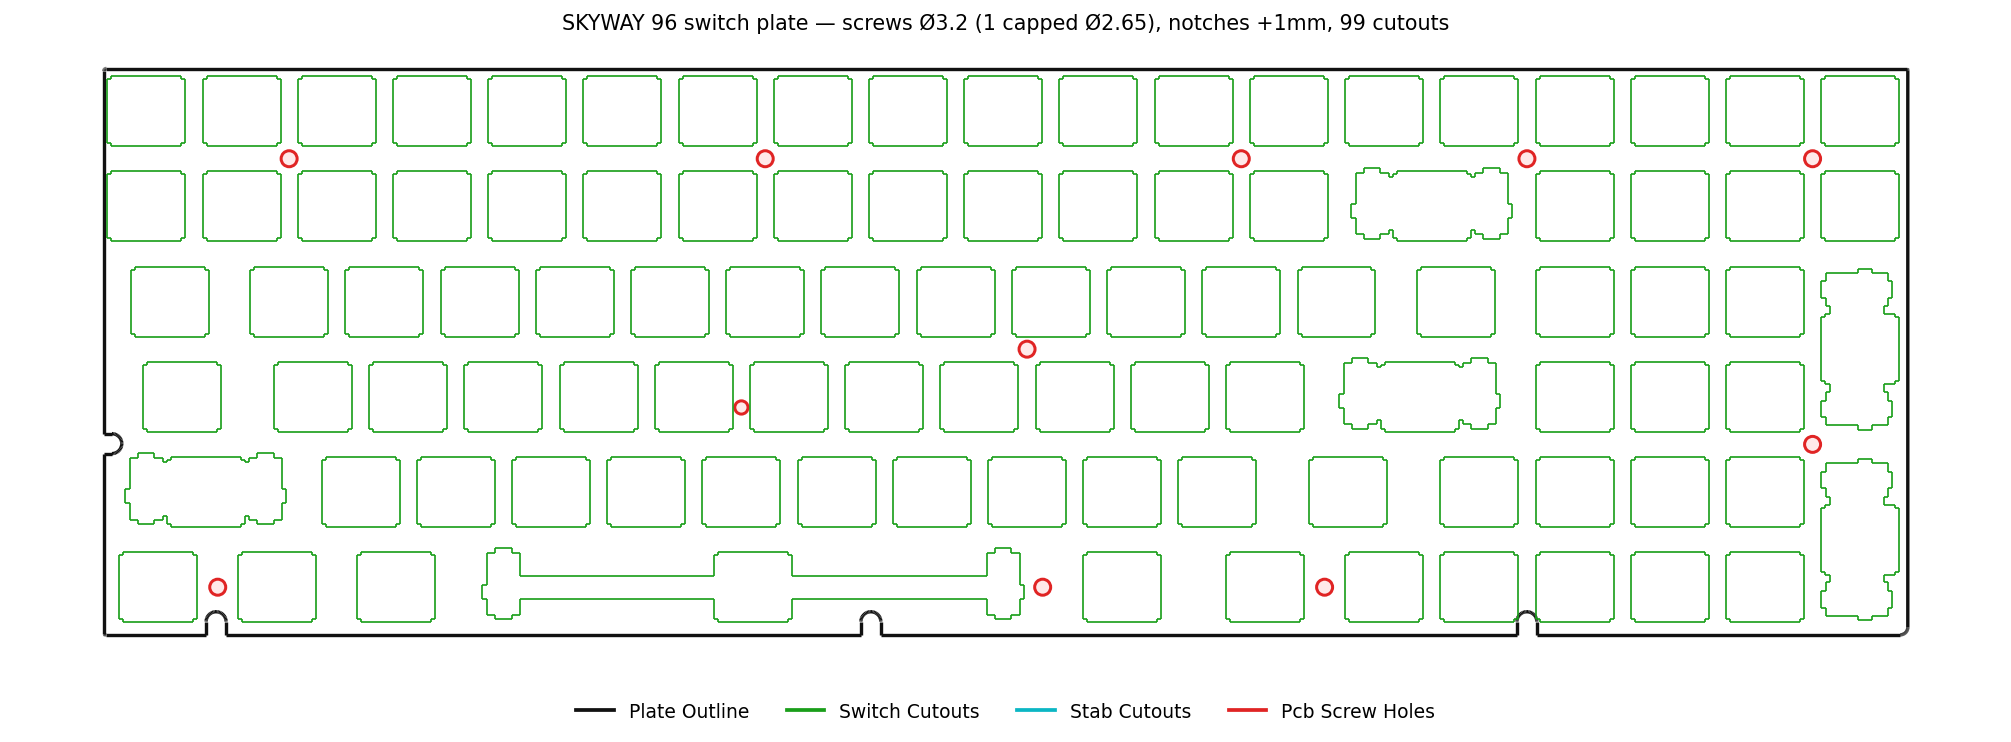
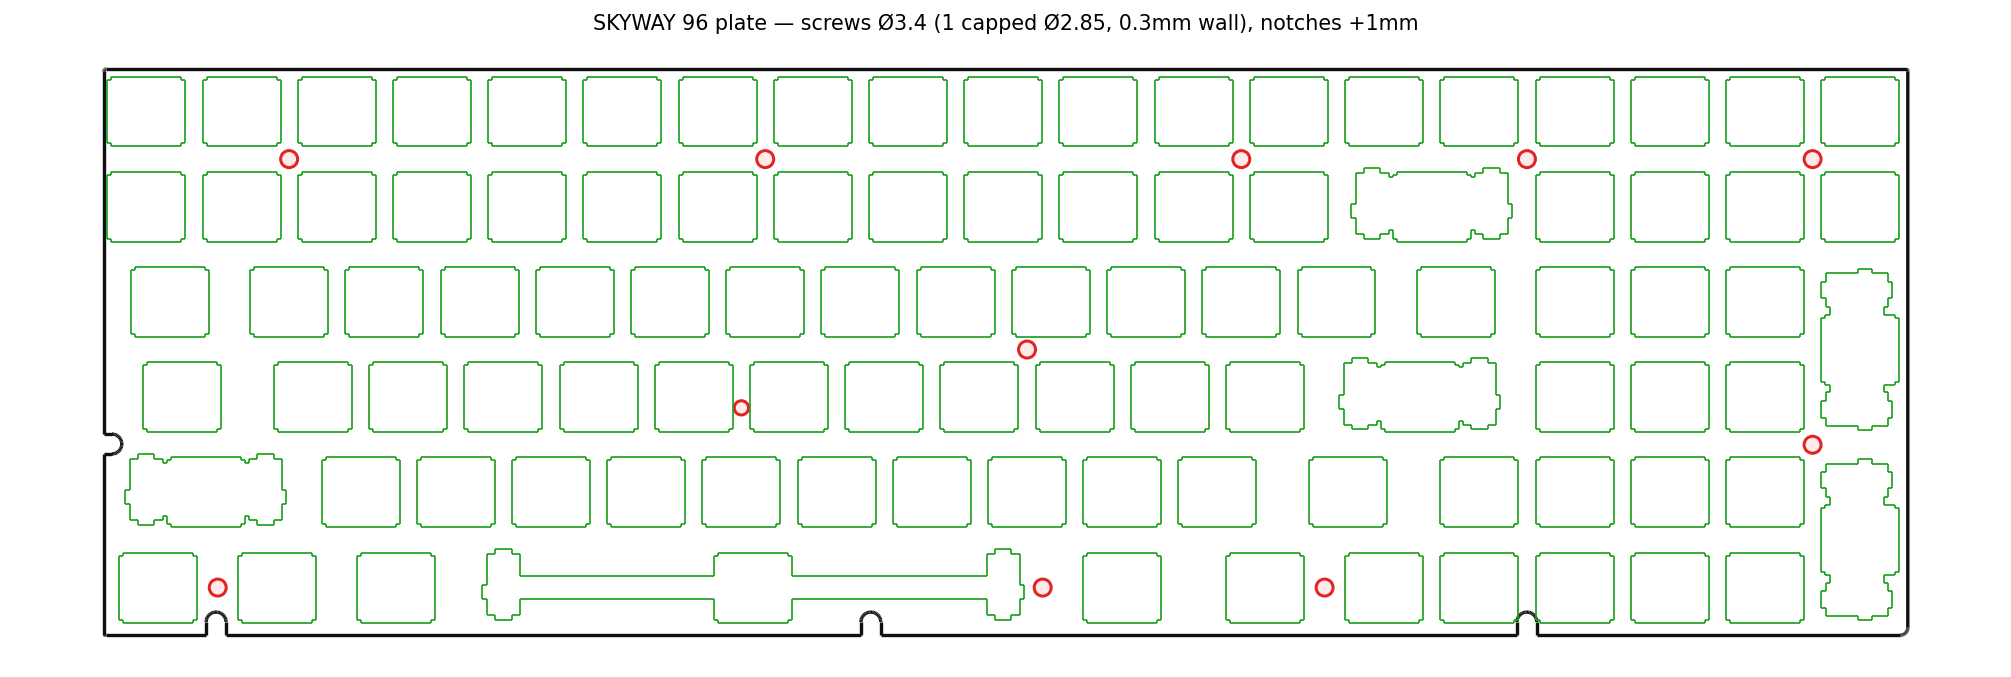
Plate: screw holes Ø3.4 (max wiggle, 0.3mm wall; 1 capped Ø2.85)

diff --git a/Plate/README.md b/Plate/README.md
@@ -8,19 +8,19 @@ Switch/stabilizer mounting plate for the SKYWAY 96 PCB.
 |---|---|
 | Size | 361.95 × 114.30 mm |
 | Switch cutouts | 99 (Cherry MX, 14 mm) incl. combo cutouts (space, enter, backspace, numpad enter/plus) |
-| Screw holes | 11 × **Ø3.2** (M2 + big wiggle); 1 capped to Ø2.65 (PCB-constrained), aligned to PCB mounting holes |
+| Screw holes | 11 × **Ø3.4** (M2 + max wiggle); 1 capped to Ø2.85 (PCB-constrained), aligned to PCB mounting holes |
 | Edge notches | 4 (bottom + left + right), **grown +1 mm** for clearance |
 | Format | `skyway96_plate.dxf` — layered (outline / switch / stab / screw) |
 
 Cut from 1.5 mm FR4, brass, aluminium, or POM (laser / waterjet). The DXF is
 SendCutSend-ready (no zero-length segments).
 
-**Changes from PCB-exact:** screw holes opened Ø2.4→**Ø3.2** and notches grown
+**Changes from PCB-exact:** screw holes opened Ø2.4→**Ø3.4** and notches grown
 +1 mm for generous install wiggle; the bottom row left of the arrows is **2 wide
 keys (1.5u each — RCtrl + Fn)** instead of three 1u, matching the PCB's two
-switches there. Holes are sized **per-hole**: as big as Ø3.2 while keeping a
-≥0.4 mm wall to the nearest switch cutout — one PCB-constrained hole is therefore
-capped at Ø2.65. Regenerate via `scripts/postprocess_plate.py --screw-dia ... --min-wall ...`.
+switches there. Holes are sized **per-hole**: as big as Ø3.4 while keeping a
+≥0.3 mm wall to the nearest switch cutout — one PCB-constrained hole is therefore
+capped at Ø2.85 (Ø3.4 is the ceiling — M2 heads ~3.8 mm would pull through a bigger hole). Regenerate via `scripts/postprocess_plate.py --screw-dia ... --min-wall ...`.
 
 ## Source
 

diff --git a/README.md b/README.md
@@ -51,7 +51,7 @@ More renders (keycaps, stabilizers, alternate angles) live in [`3D Images/`](<3D
 
 ### Switch Plate
 
-Switch/stabilizer mounting plate (99 cutouts, 11× Ø3.2 screw holes, 361.95×114.30 mm).
+Switch/stabilizer mounting plate (99 cutouts, 11× Ø3.4 screw holes, 361.95×114.30 mm).
 DXF + details in [`Plate/`](Plate/).
 
 ![Switch plate](<3D%20Images/Switch%20Plate.png>)